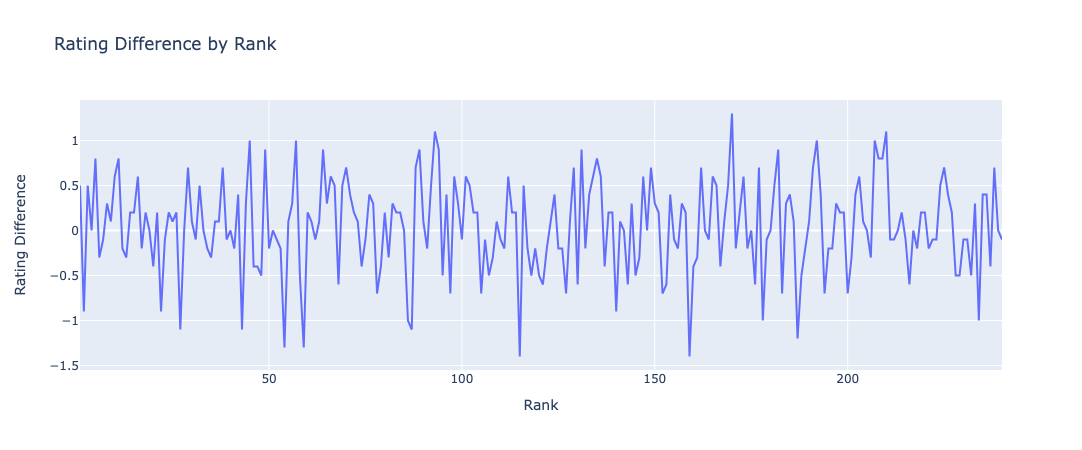
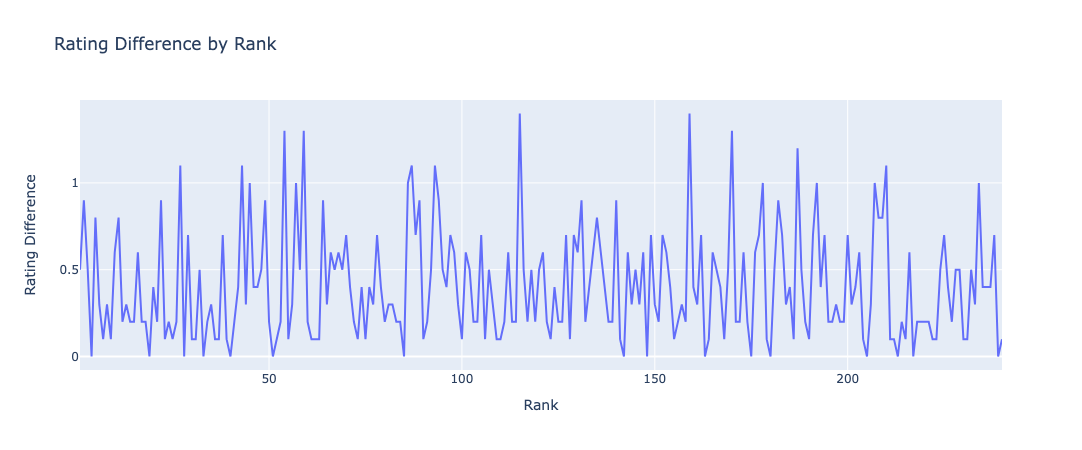
fix diff data

diff --git a/_posts/2024-11-10-post-three.md b/_posts/2024-11-10-post-three.md
@@ -49,7 +49,7 @@ The boxplots look very similar, but we can already see some *slight* differences
 
 Are audiobooks and ebooks rated similarly at the same rankings? 
 
-With this question, I took each ebook's rating at rank 1, then rank 2, all through rank 240 and subtracted each audiobook's rating at rank 1, then rank 2, through rank 240. The plot below shows these differences. 
+With this question, I took each ebook's rating at rank 1, rank 2, through rank 240 and subtracted each audiobook's rating at rank 1, then rank 2, through rank 240 and took the absolute value. The plot below shows these differences. 
 
 <figure>
     <img src="{{site.url}}/{{site.baseurl}}/assets/img/rating-diff-plot.png" alt=""> 
@@ -61,7 +61,9 @@ Summary of rating differences:
 
 | mean | median | mode | min | max |
 |------|--------|------|-----|-----|
-| 0.0425 | 0.1 | 0.2 | -1.4 | 1.3 |
+| 0.4067 | 0.3 | 0.2 | 0.0 | 1.4 |
+
+There are differences, but on average they don't seem to be too major. An average difference of 0.4 is relatively small. Even a max difference of 1.4 shows that the ratings at each rank seem to be consistent.
 
 
 #### CORRELATION between Rank and Rating
